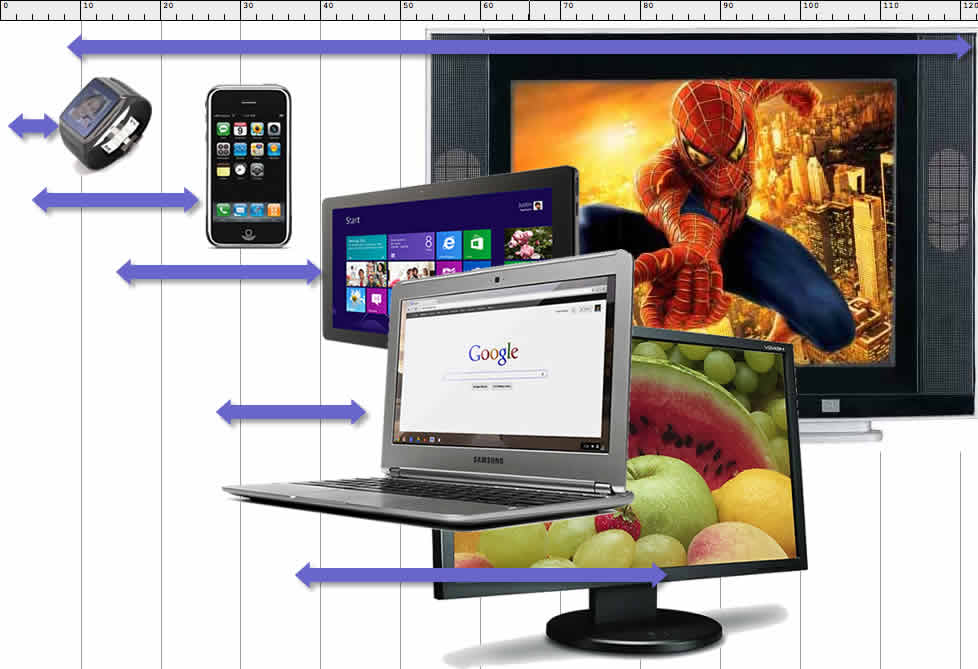
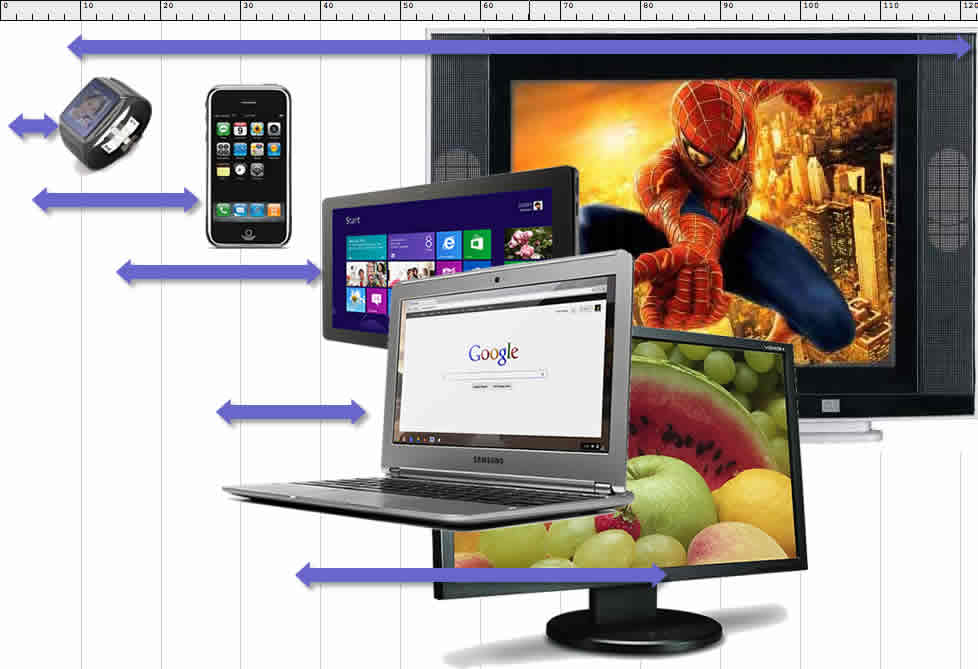
title change and device images size

diff --git a/30.html b/30.html
@@ -48,7 +48,7 @@
 }
 .compact li, .compact ul {
 	margin-top: 0.3em;
-	margin-bottom: 0;	
+	margin-bottom: 0;
 }
 </style>
 
@@ -60,7 +60,7 @@
 	<li class="button cancel" id="back">Back</li>
     <li class="button done" id="next">Next</li>
 </ul>
-<h1>CSS3 &amp; Mobile Performance</h1>
+<h1>Web performance in a mobile world</h1>
 </nav>
 </header>
 
@@ -561,7 +561,7 @@ leads to sloppy App Dev</p>
     	<li>Use tools (ImageAlpha, TinyPNG)</li>
     	<li>Use PNG8</li>
     </ul>
-</li> 
+</li>
 <li>Reduce image size</li>
 <li>Serve the right image
 	<ul>
@@ -572,13 +572,13 @@ leads to sloppy App Dev</p>
         <li>Clown Car Technique</li>
 		<li>Use fonts when you can</li>
     </ul>
-</li> 
+</li>
 </ul>
 
 
 <p> Video, Audio, Images and Text can be compressed to save bandwidth, but they're uncompressed in the browser.</p>
 
-   <footer class="credit">Photo: <a href="http://www.hdwallpapers4ipad.com/photo/abstract_backgrounds/broken_screen/2-0-1568">hdwallpapers4ipad.com</a></footer>    
+   <footer class="credit">Photo: <a href="http://www.hdwallpapers4ipad.com/photo/abstract_backgrounds/broken_screen/2-0-1568">hdwallpapers4ipad.com</a></footer>
      </section>
     </div>
 
@@ -670,20 +670,20 @@ screen and (min-width: 380px) and (-webkit-min-device-pixel-ratio: 2)</b>{
 <pre>
 &lt;svg xmlns=&quot;http://www.w3.org/2000/svg&quot; viewBox=&quot;0 0 300 329&quot; preserveAspectRatio=&quot;xMidYMid meet&quot;&gt;
  &lt;title&gt;Clown Car Technique&lt;/title&gt;
- &lt;style&gt; 
+ &lt;style&gt;
   svg {
     background-size: 100% 100%;
     background-repeat: no-repeat;
-  } 
+  }
  @media screen and (max-width: 400px) {
   svg {background-image: url(images/small.png&quot;);}
- } 
+ }
  @media screen and (min-width: 401px) and (max-width: 700px) {
   svg {background-image: url(images/medium.png);}
- } 
+ }
  @media screen and (min-width: 701px) and (max-width: 1000px) {
   svg {background-image: url(images/big.png);}
- } 
+ }
  @media screen and (min-width: 1001px) {
   svg {background-image: url(images/huge.png);}
  }
@@ -750,7 +750,7 @@ screen and (min-width: 380px) and (-webkit-min-device-pixel-ratio: 2)</b>{
      </header>
      <section>
      <div style="float: left; width: 50%">
-  
+
      <ul class="sevenless">
         <li>rounded Corners</li>
         <li>box-shadow</li>
@@ -807,7 +807,7 @@ screen and (min-width: 380px) and (-webkit-min-device-pixel-ratio: 2)</b>{
      <header><h1>Large and Small Fonts</h1></header>
      <a href="http://www.fontsquirrel.com/fontface/generator" class="objectlink" target="_foo">www.fontsquirrel.com</a>
  </div>
- 
+
  <div class="slide object">
 <object data="http://copypastecharacter.com"></object>
      <header><h1>Use icons, not images or external fonts</h1></header>
